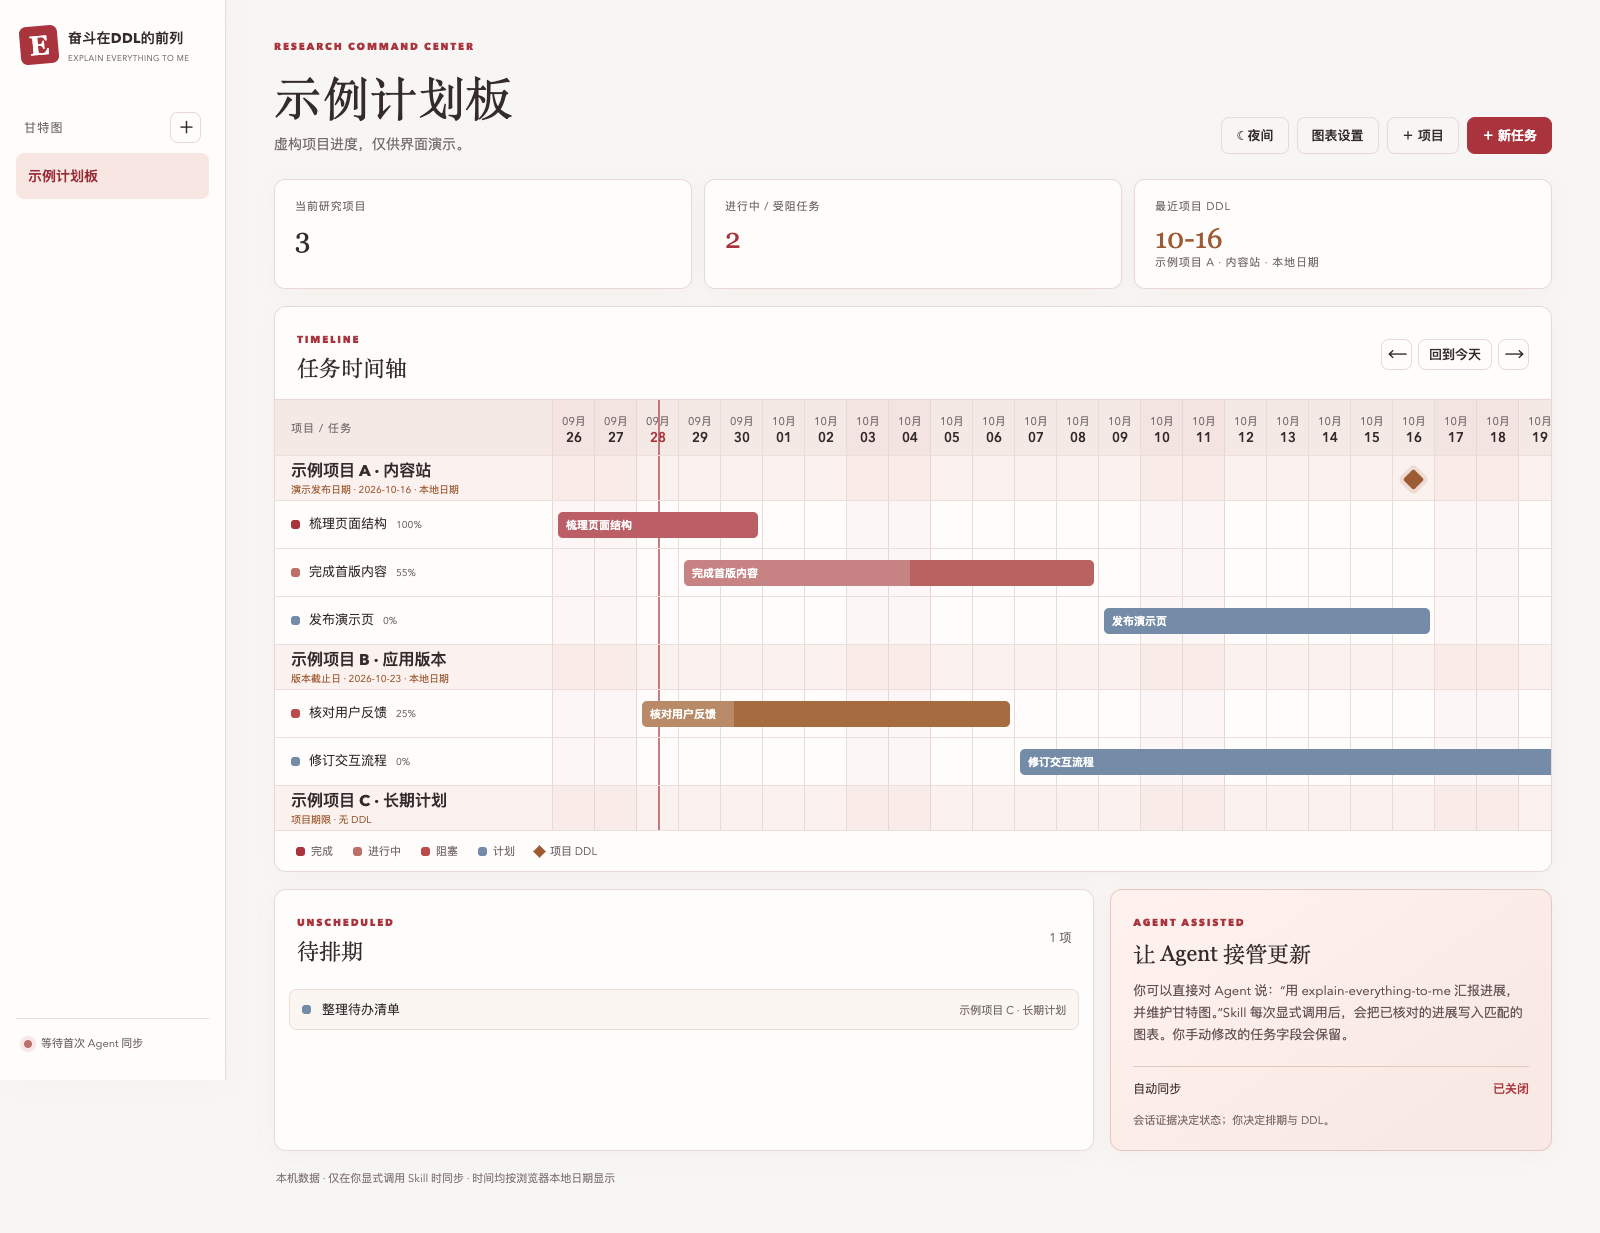
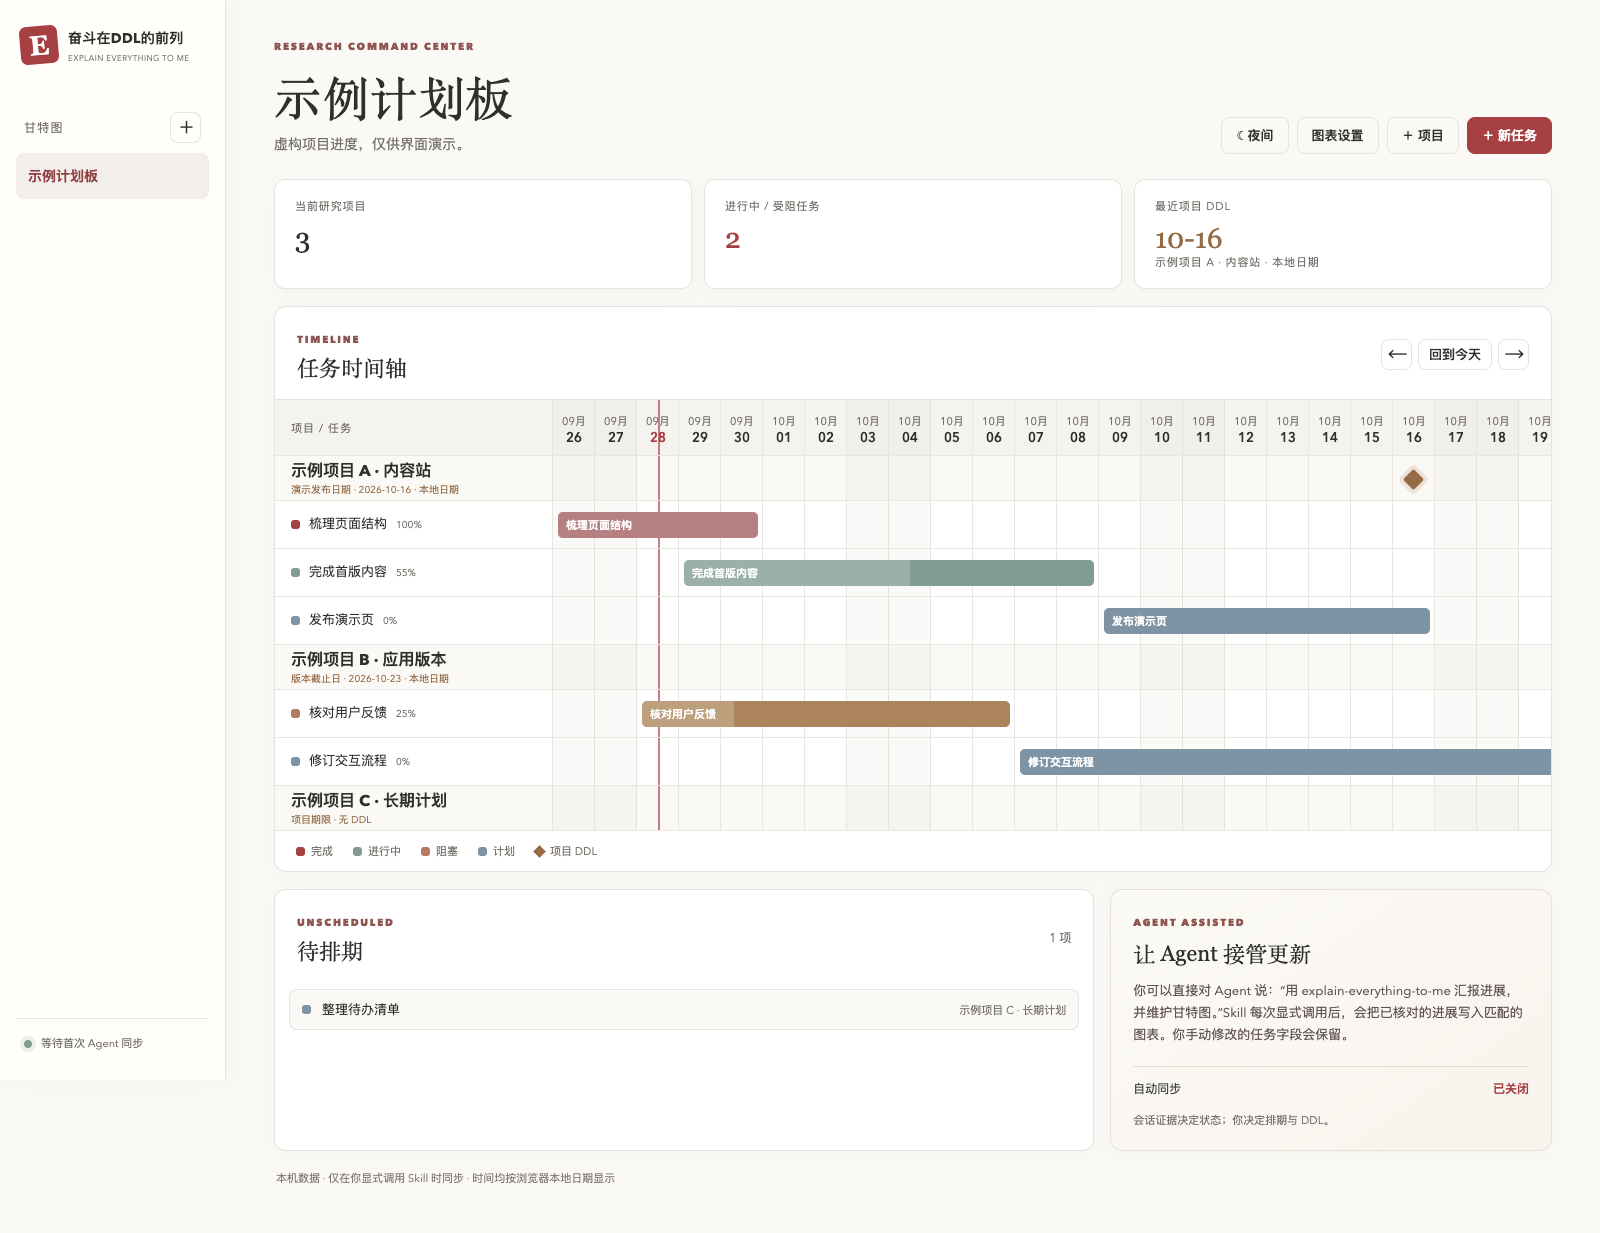
style: soften gantt day theme to paper white

Changed region(s): [[0.3438, 0.4006, 0.6875, 0.4931], [0.4375, 0.5547, 0.6562, 0.6164]]

diff --git a/components/gantt/styles.css b/components/gantt/styles.css
@@ -7,54 +7,54 @@
 /* Light theme keeps the existing layout and uses warm white with restrained red accents. */
 :root[data-theme="light"] {
   color-scheme: light;
-  --bg:#f8f6f4;--rail:#fffdfb;--panel:#fffdfc;--panel2:#f9f2ef;
-  --line:#e9d9d6;--text:#342b2c;--muted:#756b6b;
-  --accent:#a9343e;--mint:#bd706b;--gold:#9c5b33;
-  --red:#ba4d4c;--blue:#748ca7;
+  --bg:#faf9f6;--rail:#fffefa;--panel:#fff;--panel2:#f7f6f2;
+  --line:#e7e4df;--text:#302f2c;--muted:#736f69;
+  --accent:#a64043;--mint:#819c90;--gold:#956b46;
+  --red:#b37b62;--blue:#7e93a3;
 }
-[data-theme="light"] .rail{box-shadow:3px 0 24px #8d4d3b0a}
+[data-theme="light"] .rail{box-shadow:3px 0 24px #463d2e08}
 [data-theme="light"] .brand-mark{color:#fff}
-[data-theme="light"] .eyebrow{color:#a9343e}
+[data-theme="light"] .eyebrow{color:#8f5550}
 [data-theme="light"] .icon-btn:hover,
-[data-theme="light"] .ghost:hover{background:#f8eae7;border-color:#cb9e9b}
-[data-theme="light"] #chart-list button:hover{background:#faefec}
-[data-theme="light"] #chart-list button.selected{background:#f7e6e2;color:#982b36}
-[data-theme="light"] .pulse{box-shadow:0 0 0 4px #bd706b24}
+[data-theme="light"] .ghost:hover{background:#f4f1ed;border-color:#c9bdb7}
+[data-theme="light"] #chart-list button:hover{background:#f4f2ee}
+[data-theme="light"] #chart-list button.selected{background:#f2eee9;color:#904044}
+[data-theme="light"] .pulse{box-shadow:0 0 0 4px #819c9024}
 [data-theme="light"] .primary{color:#fff}
-[data-theme="light"] .primary:hover{background:#8d2933}
+[data-theme="light"] .primary:hover{background:#89363a}
 [data-theme="light"] .metric,
 [data-theme="light"] .chart-card,
-[data-theme="light"] .card{box-shadow:0 4px 18px #7550470b}
-[data-theme="light"] .timeline-scroller{scrollbar-color:#c8aaa4 transparent}
-[data-theme="light"] .timeline-row{border-bottom-color:#ebdedb}
-[data-theme="light"] .timeline-row:hover{background:#f8eeeb}
+[data-theme="light"] .card{box-shadow:0 4px 18px #514d4008}
+[data-theme="light"] .timeline-scroller{scrollbar-color:#c4bdb3 transparent}
+[data-theme="light"] .timeline-row{border-bottom-color:#eae7e1}
+[data-theme="light"] .timeline-row:hover{background:#f7f5f1}
 [data-theme="light"] .timeline-row.head,
-[data-theme="light"] .head .timeline-label{background:#f5e9e6}
+[data-theme="light"] .head .timeline-label{background:#f5f3ef}
 [data-theme="light"] .timeline-row.project,
-[data-theme="light"] .project .timeline-label{background:#fbf1ee}
-[data-theme="light"] .timeline-track{background-image:repeating-linear-gradient(to right,transparent 0,transparent calc(var(--day) - 1px),#e8dcd9 calc(var(--day) - 1px),#e8dcd9 var(--day))}
-[data-theme="light"] .timeline-track .weekend{background:#a9343e08}
-[data-theme="light"] .timeline-track .today-line{background:#ae4852b5}
+[data-theme="light"] .project .timeline-label{background:#faf9f6}
+[data-theme="light"] .timeline-track{background-image:repeating-linear-gradient(to right,transparent 0,transparent calc(var(--day) - 1px),#e9e6e0 calc(var(--day) - 1px),#e9e6e0 var(--day))}
+[data-theme="light"] .timeline-track .weekend{background:#7d756009}
+[data-theme="light"] .timeline-track .today-line{background:#a64043a8}
 [data-theme="light"] .bar{color:#fff}
 [data-theme="light"] .bar:after{background:#ffffff35}
-[data-theme="light"] .bar.active{background:#b86262}
-[data-theme="light"] .bar.done{background:#a9343e}
-[data-theme="light"] .bar.planned{background:#748ca7}
-[data-theme="light"] .bar.blocked{background:#a66b3f}
+[data-theme="light"] .bar.active{background:#819c90}
+[data-theme="light"] .bar.done{background:#a35d60}
+[data-theme="light"] .bar.planned{background:#7e93a3}
+[data-theme="light"] .bar.blocked{background:#ac845b}
 [data-theme="light"] .milestone{box-shadow:0 0 0 4px #9c5b3324}
 [data-theme="light"] .milestone:hover{box-shadow:0 0 0 7px #9c5b333a}
-[data-theme="light"] .backlog-item{background:#fcf6f3;border-color:#eadcd8}
-[data-theme="light"] .backlog-item:hover{background:#f7e9e5}
-[data-theme="light"] .agent-card{background:linear-gradient(145deg,#fff2ee,#f9e9e4 80%);border-color:#e6c8c3}
+[data-theme="light"] .backlog-item{background:#faf9f6;border-color:#e7e4df}
+[data-theme="light"] .backlog-item:hover{background:#f3f1eb}
+[data-theme="light"] .agent-card{background:linear-gradient(145deg,#fcfaf4,#f7f5ee 80%);border-color:#e5e1d7}
 [data-theme="light"] .agent-card p{color:#625355}
-[data-theme="light"] .agent-foot{border-top-color:#e1c7c2}
+[data-theme="light"] .agent-foot{border-top-color:#e3ded2}
 [data-theme="light"] .agent-card small{color:#78696a}
 [data-theme="light"] footer{color:#847778}
-[data-theme="light"] dialog{background:#fffdfc;border-color:#dcbdb8;box-shadow:0 25px 75px #5b302e30}
+[data-theme="light"] dialog{background:#fffefa;border-color:#d7d2c9;box-shadow:0 25px 75px #403b3230}
 [data-theme="light"] dialog::backdrop{background:#3823268f}
 [data-theme="light"] .field input,
 [data-theme="light"] .field select,
-[data-theme="light"] .field textarea{background:#fff;color:var(--text);border-color:#d7c6c2}
+[data-theme="light"] .field textarea{background:#fff;color:var(--text);border-color:#d5d0c7}
 [data-theme="light"] .field .hint{color:#756b6b}
 [data-theme="light"] .danger{border-color:#cf9b9b}
-[data-theme="light"] #toast{background:#a9343e;color:#fff;box-shadow:0 8px 30px #73343b35}
+[data-theme="light"] #toast{background:#a64043;color:#fff;box-shadow:0 8px 30px #5d3a3c30}

diff --git a/README.md b/README.md
@@ -1,6 +1,6 @@
 # explain-everything-to-me
 
-当前版本：**0.8.1**
+当前版本：**0.8.2**
 
 **问一句：我的 Agents 最近做了什么？**
 
@@ -123,13 +123,13 @@ python3 components/gantt/gantt.py serve
 
 打开 `http://127.0.0.1:8765/`。Agent 只在你显式调用 Skill 时，用本次打开并核对的会话证据同步工作区路径精确匹配的任务。手动修改的字段和项目 DDL 会保留。组件未安装时，Skill 跳过同步。详细规则见[甘特图同步说明](references/gantt-sync.md)。
 
-页面右上角可在**日间红白**与**夜间绿黑**两套配色之间切换，选择保存在当前浏览器本地；首次打开沿用夜间版。布局、任务数据与同步规则不随配色改变。
+页面右上角可在**日间纸白（深红点缀）**与**夜间绿黑**两套配色之间切换，选择保存在当前浏览器本地；首次打开沿用夜间版。布局、任务数据与同步规则不随配色改变。
 
 以下两张截图只展示仓库附带的虚构示例，没有作者的真实项目或工作区：
 
-**日间版 · 红白配色**
+**日间版 · 纸白与深红点缀**
 
-![虚构示例计划板的日间红白配色截图](assets/screenshots/gantt-day.png)
+![虚构示例计划板的日间纸白配色截图](assets/screenshots/gantt-day.png)
 
 **夜间版 · 绿黑配色**
 
